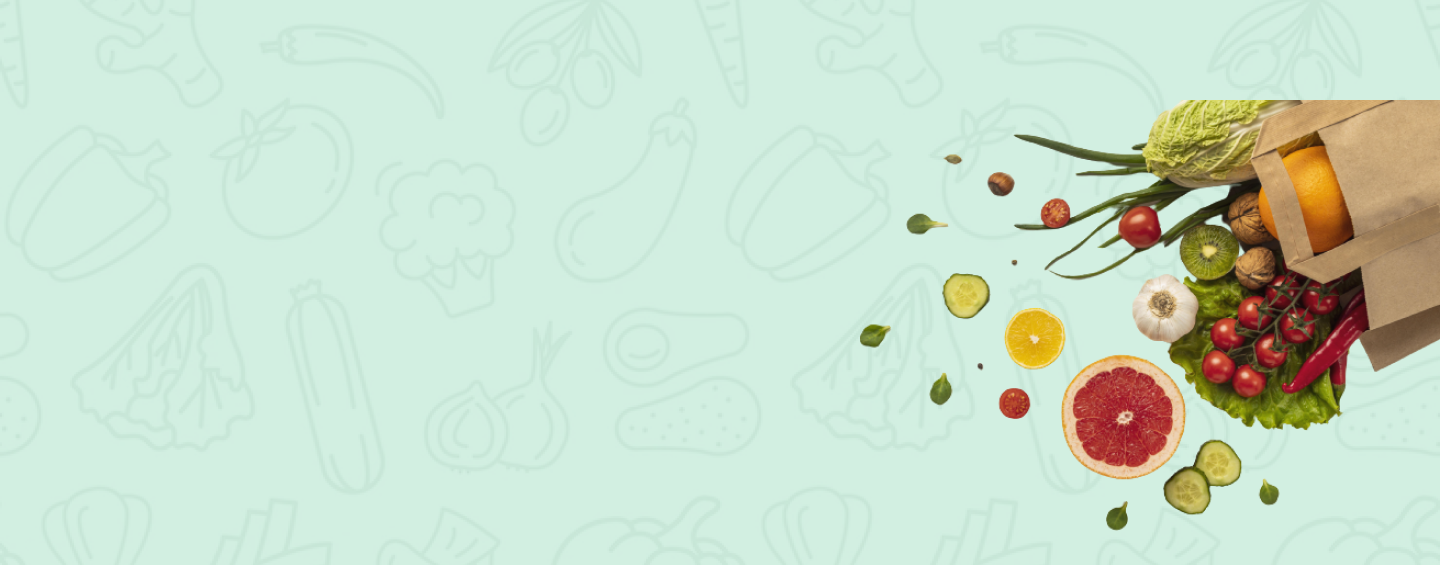
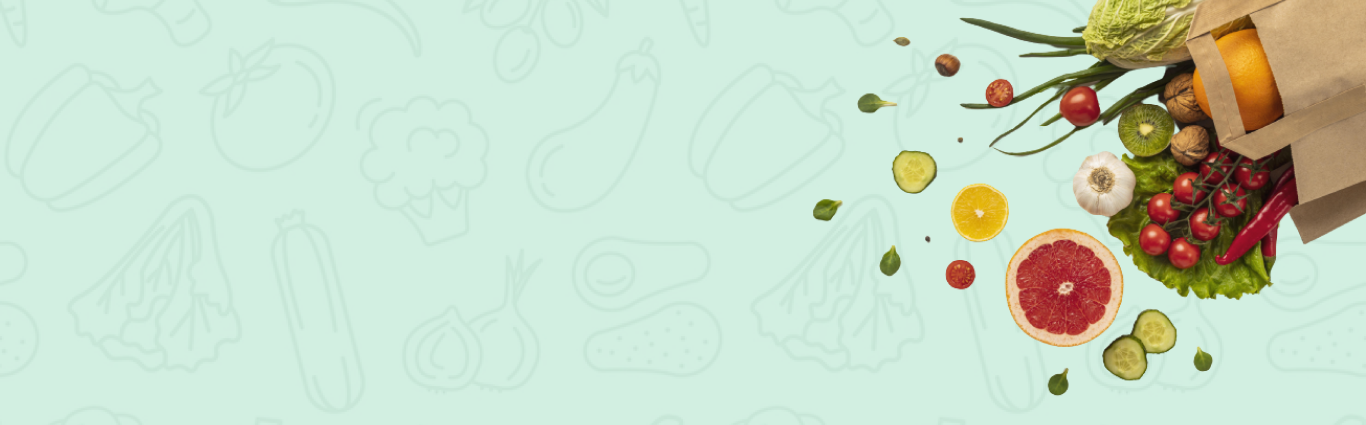
update-hero

diff --git a/css/style.css b/css/style.css
@@ -45,28 +45,24 @@ input[type="checkbox"]:checked {
     border:2px solid black;
 }
 
-/* Scrollbar width */
+/* Scrollbar*/
 ::-webkit-scrollbar {
-    width: 1.5vh; /* Width of the entire scrollbar */
+    width: 1.5vh;
 }
 
-/* Track */
 ::-webkit-scrollbar-track {
-    background: #9cecc7; /* Background color of the track */
+    background: #9cecc7;
 }
 
-/* Handle */
 ::-webkit-scrollbar-thumb {
-    background: #198754; /* Color of the scrollbar handle */
-    border-radius: 6px; /* Rounded corners of the handle */
+    background: #198754;
+    border-radius: 6px;
 }
 
-/* Handle on hover */
 ::-webkit-scrollbar-thumb:hover {
-    background: #555; /* Darker color on hover */
+    background: #555;
 }
 
-/* header */
 .links{
     margin-left: 3vw;
 }
@@ -193,28 +189,36 @@ input[type="checkbox"]:checked {
     padding: 40px 50px;
 }
 
-.hero {
+/* .hero {
     display: flex;
-    justify-content: space-between;
     align-items: center;
-    height: 80vh;
-    background-image: url('../img/items/banners/banner.png');
+    height: 70vh;
+    position: relative;
+    padding: 0 2rem;
+    color: #000;
+    background-image: url('../img/items/banners/hero-bg-img.png');
     background-size: cover;
     background-position: center;
-    background-repeat: no-repeat;
-    padding: 0 2rem;
-    color: #fff;
+}
+
+.hero::before {
+    content: "";
+    position: absolute;
+    top: 0;
+    left: 0;
+    width: 100%;
+    height: 100%;
+    background-color: rgba(168, 218, 220, 0.7); 
+    z-index: 1;
 }
 
 .hero .content {
+    position: relative;
+    z-index: 3;
     max-width: 50%;
-    color: black;
-    display: flex;
-    justify-content: center;
-    flex-direction: column;
 }
 
-.hero span{
+.hero span {
     font-size: 1.2rem;
 }
 
@@ -229,7 +233,7 @@ input[type="checkbox"]:checked {
 }
 
 .hero .cta-button {
-    background-color: var(--primary);
+    background-color: var(--primary, #2a9d8f);
     color: #fff;
     padding: 0.75rem 1.5rem;
     border: none;
@@ -239,18 +243,108 @@ input[type="checkbox"]:checked {
     transition: background-color 0.3s ease;
     width: fit-content;
 }
-.hero .cta-button i{
-    color: #fff;
+
+.hero .cta-button:hover {
+    background-color: var(--light-green, #e76f51);
 }
 
+.hero img.top-right-image {
+    position: absolute;
+    top: 0;
+    right: 0;
+    max-width: 40%; 
+    height: auto;
+    z-index: 3; 
+} */
+
+
+.hero {
+    position: relative;
+    height: 70vh;
+    background-image: url('../img/items/banners/hero-bg-img.png');
+    background-size: cover;
+    background-position: center;
+    padding: 2rem;
+    color: #000;
+}
+
+/* Layer the blue background with opacity over the vegetables image */
+.hero::before {
+    content: "";
+    position: absolute;
+    top: 0;
+    left: 0;
+    width: 100%;
+    height: 100%;
+    background-color: rgba(168, 218, 220, 0.7); /* Blue background with 70% opacity */
+    z-index: 1;
+}
+
+.hero .content {
+    position: relative;
+    z-index: 2;
+}
+
+.hero h1 {
+    font-size: 3rem;
+    font-weight: 800;
+}
+
+.hero p {
+    font-size: 1.25rem;
+}
+
+.hero .cta-button {
+    background-color: var(--primary, #2a9d8f);
+    color: #fff;
+    padding: 0.75rem 1.5rem;
+    border: none;
+    border-radius: 0.5rem;
+    font-size: 1rem;
+    cursor: pointer;
+    transition: background-color 0.3s ease;
+    width: fit-content;
+}
 
 .hero .cta-button:hover {
     background-color: var(--light-green);
 }
 
-.image{
-    object-fit: cover;
-    height: 80vh;
+.hero .top-right-image {
+    position: absolute;
+    top: -15vh;
+    right: -7.96vw;
+    max-width: 90%; 
+    height: auto;
+    z-index: 3; 
+}
+
+@media (max-width: 768px) {
+    .hero h1 {
+        font-size: 2.5rem;
+    }
+
+    .hero p {
+        font-size: 1rem;
+    }
+
+    .top-right-image {
+        max-width: 60%;
+    }
+}
+
+@media (max-width: 576px) {
+    .hero h1 {
+        font-size: 2rem;
+    }
+
+    .hero p {
+        font-size: 0.9rem;
+    }
+
+    .top-right-image {
+        max-width: 80%;
+    }
 }
 /* checkout page */
 .checkout .price{

diff --git a/index.php b/index.php
@@ -1,12 +1,20 @@
 <?php include('header.php'); ?>
-    <div class="hero">
-        <div class="content ms-5 ps-5">
-            <span>Welcome to</span>
-            <h1>PureBite</h1>
-            <p>Discover a world of fresh, quality groceries delivered straight to your door. From farm-fresh produce to pantry essentials, we bring convenience and freshness to your daily life.</p>
-            <a href="shop.php" class="cta-button order-link">Explore</a>
+<div class="hero d-flex align-items-center">
+    <div class="container">
+        <div class="row">
+            <div class="col-lg-6 col-md-8 col-sm-12 content">
+                <span>Welcome to</span>
+                <h1>PureBite</h1>
+                <p>Discover a world of fresh, quality groceries delivered straight to your door. From farm-fresh produce to pantry essentials, we bring convenience and freshness to your daily life.</p>
+                <a href="shop.php" class="cta-button btn btn-primary">Explore</a>
+            </div>
+            <div class="col-lg-6 col-md-4 col-sm-12 position-relative">
+                <img src="img/items/banners/hero.png" alt="Bag and Fruits" class="top-right-image img-fluid">
+            </div>
         </div>
-    </div>
+    </div>
+</div>
+
     <section class=" mt-5 container">
         <div class="d-flex justify-content-between featured-products">
             <h4 >Featuerd products</h4>

diff --git a/header.php b/header.php
@@ -27,7 +27,7 @@
     <link rel="stylesheet" href="css/style.css">
 </head>
 <body>
-    <nav id="navibar" class="navbar navbar-expand-lg navbar-light sticky-top container-fluid  <?php echo $title=="Home"?"position-fixed":""?>">
+    <nav id="navibar" class="navbar navbar-expand-lg navbar-light sticky-top container-fluid">
         <div class="container">
             <button class="navbar-toggler" type="button" data-bs-toggle="collapse" data-bs-target="#navbarTogglerDemo01" aria-controls="navbarTogglerDemo01" aria-expanded="false" aria-label="Toggle navigation">
                 <span class="navbar-toggler-icon"></span>
